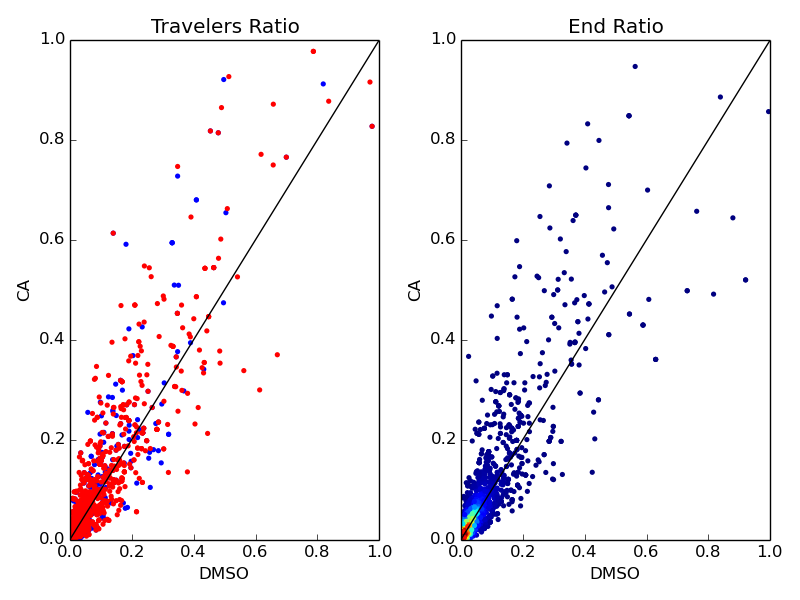
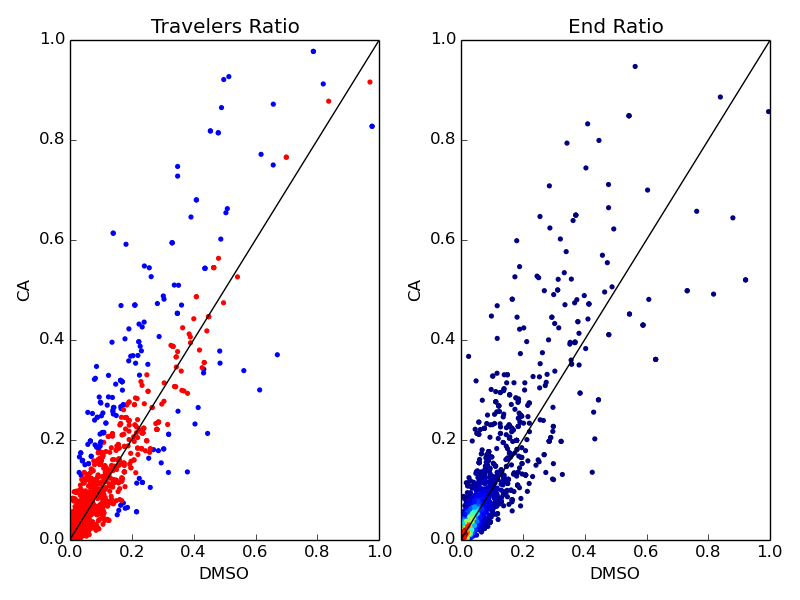
updates

diff --git a/src/master_writer.py b/src/master_writer.py
@@ -161,7 +161,7 @@ def run(DMSOgenes,DMSOTSS,DMSOEND,CAgenes,CATSS,CAEND,filedir,figuredir):
     outfile2.write("High CA TR\n")
     F3 = plt.figure()
     ax1 = F3.add_subplot(121)
-    colors = ['red', 'blue']
+    colors = ['blue', 'red']
     levels = [0, 1]
     cmap, norm = mpl.colors.from_levels_and_colors(levels=levels, colors=colors, extend='max')
     xy = np.vstack([TRx,TRy])
